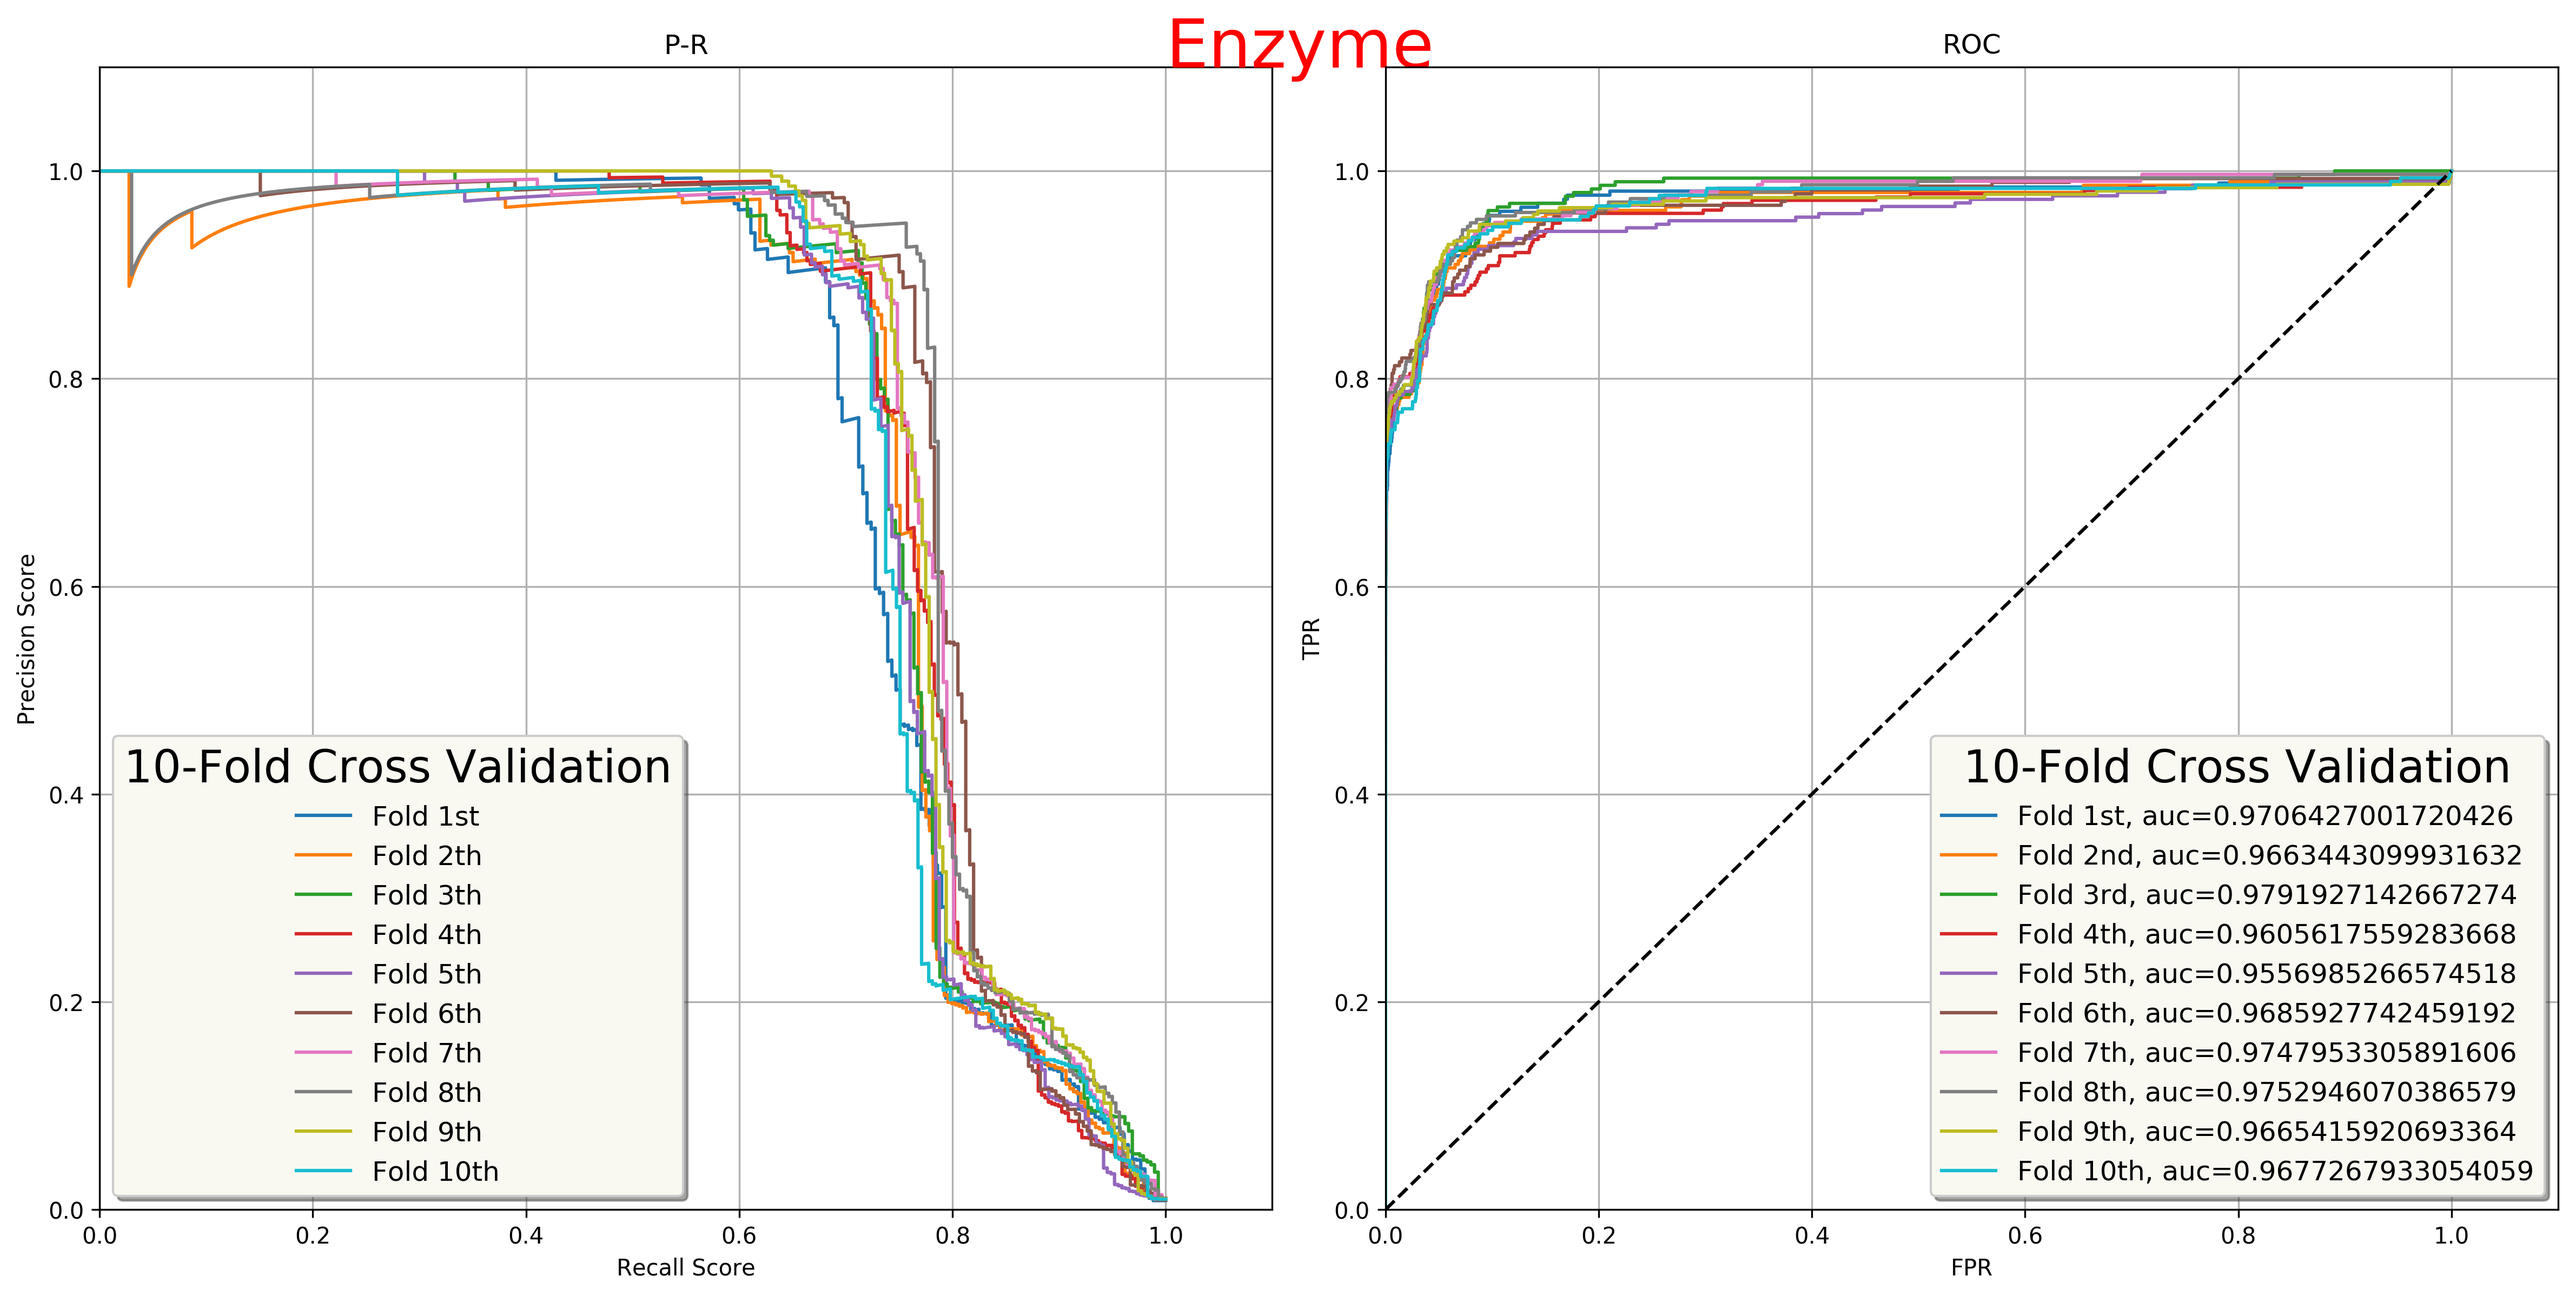
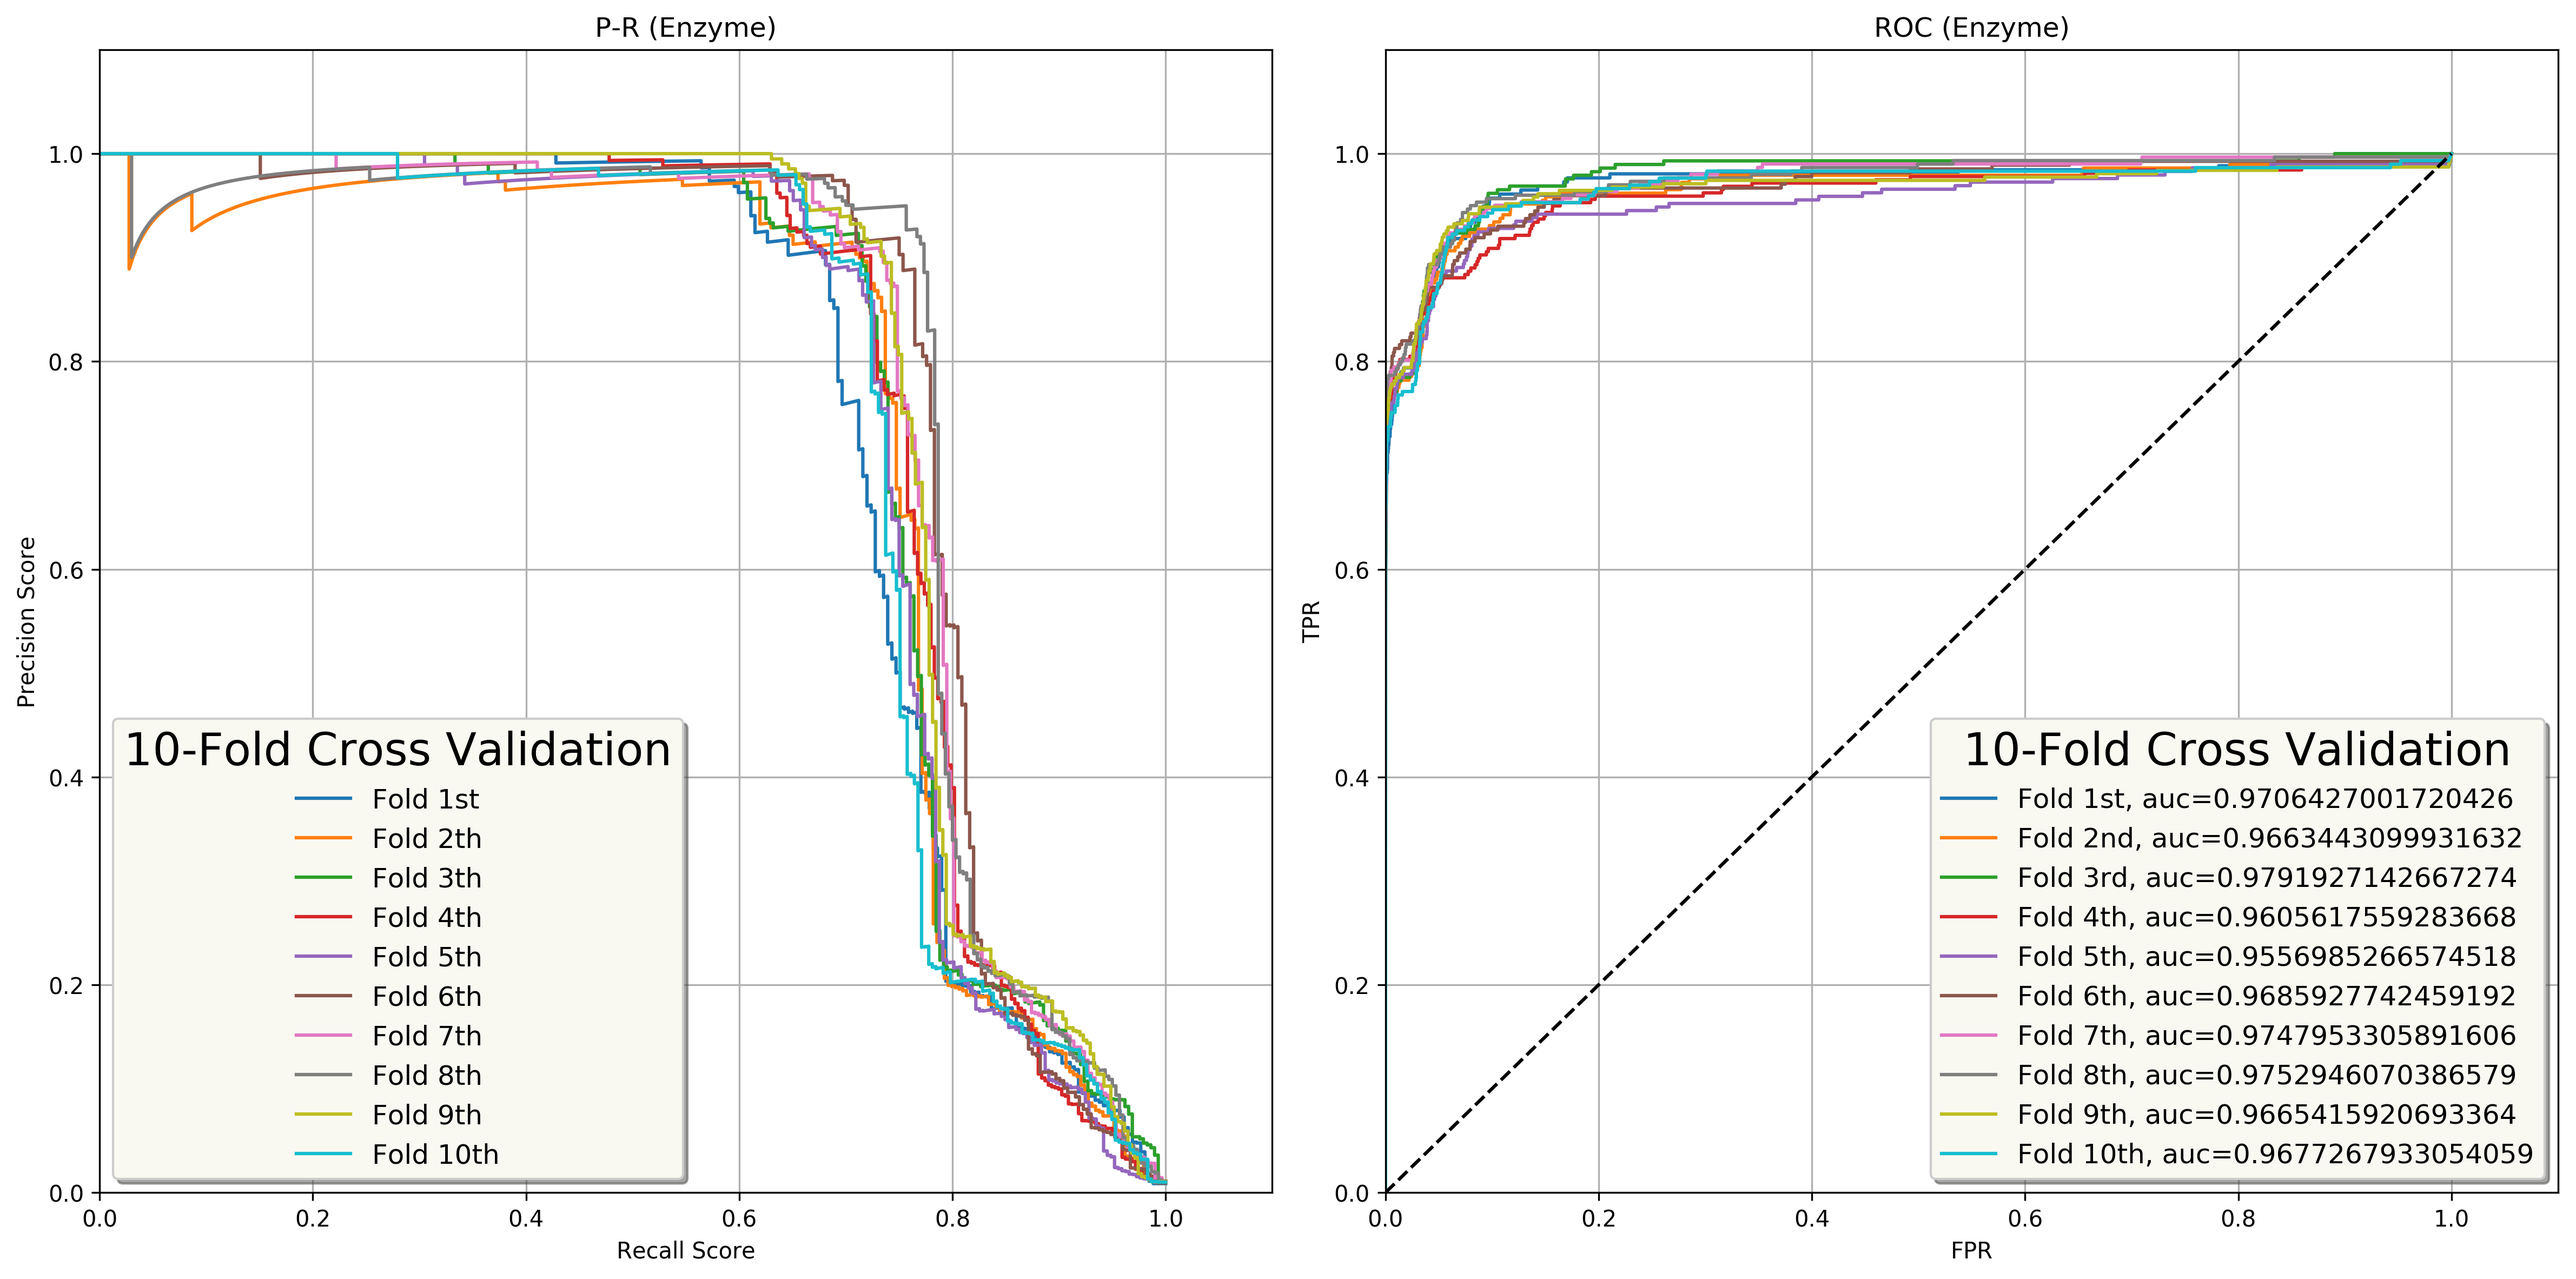
rev2,3,1
1. 增加了参数调参的绘图

diff --git a/web/templates/index.html b/web/templates/index.html
@@ -39,10 +39,10 @@
                     <form class="home-search-form" action="" accept-charset="UTF-8" method="get">
                         {#                        <input name="utf8" type="hidden" value="✓">#}
                         <div class="search-title small-header">
-                            <h4>What are you looking for?</h4>
+                            <h4>Input Drug ID or Target Id </h4>
                         </div>
                         <div class="form-group search-group"><input type="text" name="query" id="query"
-                                                                    class="search-query" placeholder="d34002"
+                                                                    class="search-query" placeholder="d00348"
                                                                     autofocus="autofocus">
                             <div class="drugbank-icon icon-search-big">
                                 <a href="#" id='toh' class="btn btn-light"
@@ -98,7 +98,7 @@
                     <table class="table table-striped text-center table-hover table-list-break" id="dailyTable">
                         <thead>
                         <tr>
-                            <th class="w-10">Index</th>
+                            <th class="w-10">Rank</th>
                             <th class="w-20" id="set_id">ID</th>
                             <th class="w-20">Score</th>
                             <th class="w-15">Kegg</th>

diff --git a/predict/netlaprls/test.py b/predict/netlaprls/test.py
@@ -1,4 +1,6 @@
 # _*_coding:utf-8_*_
+from netlaprls1_0rev import *
+
 __author__ = 'mcy'
 __date__ = '2019-04-29 10:29'
 
@@ -41,8 +43,8 @@ accs = []
 #
 
 # gpcr 4659 e 8367
-trainmodel = TrainModel(dataset='ic', seeds=[22, ], cvs=1)
-test_scores, test_labels = trainmodel.train_md()
+trainmodel = TrainModel(dataset='e', seeds=[22,], cvs=1)
+intMat, drugMat, targetMat = trainmodel.train_md()
 
 # 调参 beta_t bata_d
 # trainmodel.cv_eval()
@@ -144,7 +146,6 @@ def plot_beta(datasets):
 # print t_auc.shape
 # print t_aupr.shape
 # print test_scores.shape
-x = test_scores[0]
 
 
 def Plot_PR_ROC(test_label, test_score):
@@ -164,14 +165,14 @@ def Plot_PR_ROC(test_label, test_score):
             ax.plot(recall[i], precision[i], label="Fold %dth" % (i + 1))
     ax.set_xlabel("Recall Score")
     ax.set_ylabel("Precision Score")
-    ax.set_title("P-R")
-    legend = plt.legend(loc=3, title='10-Fold Cross Validation', shadow=True, fontsize='large')
+    ax.set_title("P-R (Ion Channel)")
+    legend = plt.legend(loc=3, title='10-Fold Cross Validation', shadow=True, fontsize='large', framealpha=1)
     legend.get_frame().set_facecolor('#f9f9f2')
     legend.get_title().set_fontsize(fontsize=20)
     ax.set_xlim(0, 1.1)
     ax.set_ylim(0, 1.1)
     ax.grid()
-    ax.text(0.9, 1.1, r'Ion Channel', fontdict={'size': 25, 'color': 'r'})
+    # ax.text(0.9, 1.1, r'Ion Channel', fontdict={'size': 25, 'color': 'r'})
 
 
     ax = fig.add_subplot(1, 2, 2)
@@ -194,7 +195,7 @@ def Plot_PR_ROC(test_label, test_score):
     ax.plot([0, 1], [0, 1], 'k--')
     ax.set_xlabel("FPR")
     ax.set_ylabel("TPR")
-    ax.set_title("ROC")
+    ax.set_title("ROC (Ion Channel)")
     legend = plt.legend(loc=4, title='10-Fold Cross Validation', shadow=True, fontsize='large')
     legend.get_frame().set_facecolor('#f9f9f2')
     legend.get_title().set_fontsize(fontsize=20)
@@ -206,13 +207,48 @@ def Plot_PR_ROC(test_label, test_score):
     # ax.text(10, 4, r'dddd', fontdict={'size': 100, 'color': 'r'})
     fig.tight_layout()
     plt.show()
-    fig.savefig("../output/ion_channel.png", dpi=300, bbox_inches='tight')
+    fig.savefig("../output/ic.png", dpi=300, bbox_inches='tight')
 
 
-Plot_PR_ROC(test_labels, test_scores)
+# Plot_PR_ROC(test_labels, test_scores)
 
 
+def plot_optimize(X, D, T, seeds):
+
+    beta_ts = np.logspace(-6, 3, 10)
+    beta_ds = np.logspace(-6, 3, 10)
+    scores_aupr = []
+    scores_auc = []
+    for beta_t in beta_ts:
+        for beta_d in beta_ds:
+            model = NetLapRLS(beta_d=beta_d,beta_t=beta_t)
+            # 10折交叉验证
+            cv_data = cross_validation(X, seeds)
+
+            aupr_vec, auc_vec, ts, tl = train(model, cv_data, X, D, T)
+            # 每次求出平均值 用于plot
+            aupr_avg, aupr_conf = mean_confidence_interval(aupr_vec)
+            auc_avg, auc_conf = mean_confidence_interval(auc_vec)
+            scores_aupr.append(aupr_avg)
+            scores_auc.append(auc_avg)
+
+    # plot
+    beta_ts, beta_ds = np.meshgrid(beta_ts, beta_ds)
+    scores_auprs = np.array(scores_aupr).reshape(beta_ts.shape)
+    scores_aucs = np.array(scores_auc).reshape(beta_ts.shape)
+
+    from mpl_toolkits.mplot3d import Axes3D
+    from matplotlib import cm
+    fig = plt.figure()
+    ax = Axes3D(fig)
+    surf = ax.plot_surface(beta_ts,beta_ds,scores_auprs, rstride=1,cstride=1, cmap=cm.jet,
+                           linewidth=0, antialiased=False)
+    fig.colorbar(surf, shrink=0.5, aspect=5)
+    ax.set_xlabel(r"$\beta_{t}$")
+    ax.set_ylabel(r"$\beta_{d}$")
+    ax.set_zlabel(r"$score$")
+    ax.set_title("Enzyme(AUPR)")
+    plt.show()
 
 
-
-
+plot_optimize(intMat, drugMat, targetMat, [7771, 8367, 22, 1812, 4659])

diff --git a/predict/netlaprls/trainmodel.py b/predict/netlaprls/trainmodel.py
@@ -55,7 +55,8 @@ class TrainModel:
         self.cv_data = cross_validation(self.intMat, self.seeds, self.cv)
         tic = time.clock()
 
-        aupr_vec, auc_vec, test_scores, test_labels = train(self.model, self.cv_data, self.intMat, self.drugMat, self.targetMat)
+        #
+        aupr_vec, auc_vec , test_scores, test_labels= train(self.model, self.cv_data, self.intMat, self.drugMat, self.targetMat)
         # 将10折交叉验证aupr auc取平均值 和 置信区间
         aupr_avg, aupr_conf = mean_confidence_interval(aupr_vec)
         auc_avg, auc_conf = mean_confidence_interval(auc_vec)
@@ -66,8 +67,8 @@ class TrainModel:
         self.save_auc_aupr(auc_vec, aupr_vec, filename='_default')
         # 保存下testdata testlable 十折的结果
         # self.save_testdata_testlabel(test_scores, test_labels)
-        return test_scores, test_labels
-        # return self.intMat, self.drugMat, self.targetMat
+        # return test_scores, test_labels
+        return self.intMat, self.drugMat, self.targetMat
 
     def save_auc_aupr(self, auc_vec, aupr_vec, filename=''):
         try:

diff --git a/predict/netlaprls/functions.py b/predict/netlaprls/functions.py
@@ -112,8 +112,8 @@ def train(model, cv_data, intMat, drugMat, targetMat):
             # print test_data
             # print test_label
             test_scores.append(score)
-            test_labels.append(test_label)
-    return np.array(aupr, dtype=np.float64), np.array(auc, dtype=np.float64), test_scores, test_labels
+            test_labels.append(test_label)  #
+    return np.array(aupr, dtype=np.float64), np.array(auc, dtype=np.float64) , test_scores, test_labels
 
 
 def train_accuracy(model, cv_data, intMat, drugMat, targetMat):
